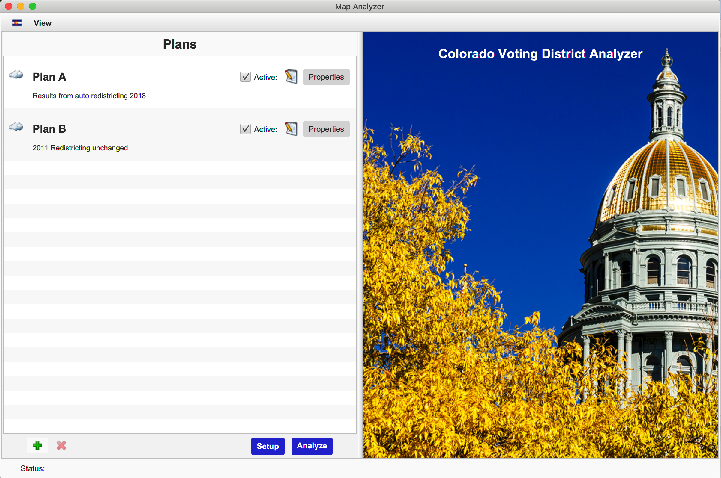
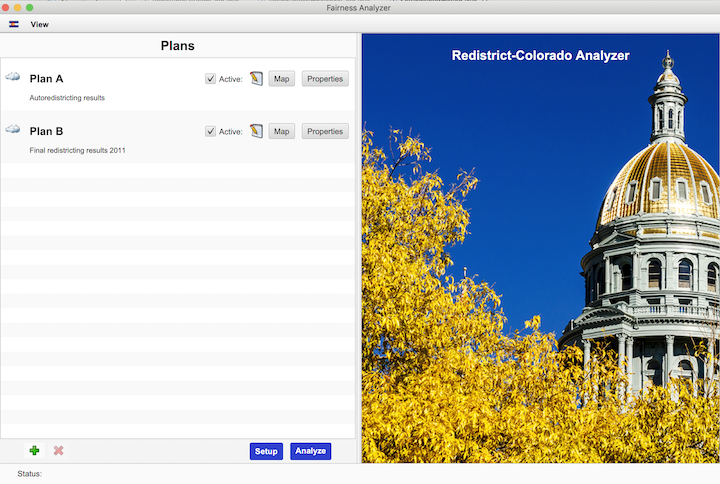
Documentation updates.

Changed region(s): [[0.0, 0.0, 1.0, 0.9665], [0.0, 0.1172, 0.2139, 0.9079], [0.0, 0.9079, 0.0917, 0.9958]]

diff --git a/workspace/GMaps/src/redistrict/colorado/gmaps/html/googlemapplan.html b/workspace/GMaps/src/redistrict/colorado/gmaps/html/googlemapplan.html
@@ -80,7 +80,7 @@
              strokeOpacity: 0.8,
              strokeWeight: 2,
              fillColor: clr,
-             fillOpacity: 0.35
+             fillOpacity: 0.15
            });
            polygon.setMap(map);
            var infowindow = new google.maps.InfoWindow();

diff --git a/workspace/GMaps/src/redistrict/colorado/gmaps/html/googlemapdistrict.html b/workspace/GMaps/src/redistrict/colorado/gmaps/html/googlemapdistrict.html
@@ -88,7 +88,7 @@
              strokeOpacity: 0.8,
              strokeWeight: 2,
              fillColor: "#AAAAAA",
-             fillOpacity: 0.35
+             fillOpacity: 0.20
            });
            polygon.setMap(map);
    	  }

diff --git a/workspace/RCUI/src/redistrict/colorado/plan/SettingsInformation.java b/workspace/RCUI/src/redistrict/colorado/plan/SettingsInformation.java
@@ -154,11 +154,19 @@ public class SettingsInformation extends Dialog<Gate> {
 		header.setStyle("-fx-font-weight: bold");
 		info.getChildren().add(header);
 		info.getChildren().add(new Text(System.lineSeparator()));
+		unfair = new Text("   unfair: 0   (votes are evenly spread )");
+		info.getChildren().add(unfair); info.getChildren().add(new Text(System.lineSeparator()));
+		fair   = new Text("      fair: .2   (seat percentage matches vote percentage)");
+		info.getChildren().add(fair); info.getChildren().add(new Text(System.lineSeparator()));
 		
 		header = new Text("Voting Power Imbalance:");
 		header.setStyle("-fx-font-weight: bold");
 		info.getChildren().add(header);
 		info.getChildren().add(new Text(System.lineSeparator()));
+		unfair = new Text("   unfair: .2   (one group has twice the power)");
+		info.getChildren().add(unfair); info.getChildren().add(new Text(System.lineSeparator()));
+		fair   = new Text("      fair: 0   (all groups have the same voting power)");
+		info.getChildren().add(fair); info.getChildren().add(new Text(System.lineSeparator()));
 		return info;
 	}
 	

diff --git a/workspace/RCUI/src/redistrict/colorado/district/DistrictMapRenderer.java b/workspace/RCUI/src/redistrict/colorado/district/DistrictMapRenderer.java
@@ -7,28 +7,18 @@
 package redistrict.colorado.district;
 import java.util.logging.Logger;
 
-import org.geotools.render.FeatureFilter;
-import org.geotools.render.MapLayer;
-import org.geotools.render.ShapefileRenderer;
-import org.geotools.style.Style;
 import org.geotools.util.Geometries;
 import org.locationtech.jts.geom.Coordinate;
 import org.locationtech.jts.geom.Envelope;
 import org.locationtech.jts.geom.GeometryCollection;
 import org.locationtech.jts.geom.Polygon;
 import org.openjump.feature.Feature;
-import org.openjump.feature.FeatureCollection;
-import org.openjump.feature.FeatureDataset;
 
-import javafx.scene.canvas.Canvas;
-import javafx.scene.paint.Color;
-import javafx.scene.shape.Rectangle;
 import redistrict.colorado.core.DatasetModel;
 import redistrict.colorado.core.StandardAttributes;
 import redistrict.colorado.db.Database;
 import redistrict.colorado.gmaps.GoogleMapView;
 import redistrict.colorado.gmaps.MapComponentInitializedListener;
-import redistrict.colorado.pref.PreferenceKeys;
 
 /**
  * Render a district from the shapefile as polygons on a Google Map.

diff --git a/workspace/RCUI/src/redistrict/colorado/gate/VotingPowerImbalanceGate.java b/workspace/RCUI/src/redistrict/colorado/gate/VotingPowerImbalanceGate.java
@@ -66,7 +66,7 @@ public class VotingPowerImbalanceGate extends Gate {
 		Text t2 = new Text("that is, the ability to effect the outcome of an election. We want to make sure that this power in not diluted by ");
 		Text t3 = new Text("artifically spredding votes of one ethnicity across multiple districts. For a single district, voting power is ");
 		Text t4 = new Text("the fraction of the population for a given ethnicity times the total votes cast divided by the vote margin.");
-		Text t5 = new Text(" We normalize by the overall population to mairgin ratio then take the harmonic mean for each ethniticy over ");
+		Text t5 = new Text(" We normalize by the overall population to margin ratio then take the harmonic mean for each ethniticy over ");
 		Text t6 = new Text("all districts. We want to minimize how much this varies between ethnicities, ");
 		Text t7 = new Text("so we take take difference between the ethnicity with the most power and the ethnicity with the least. ");
 		Text t8= new Text("We want this score to be ");

diff --git a/workspace/RCUI/src/redistrict/colorado/pane/PlanMapRenderer.java b/workspace/RCUI/src/redistrict/colorado/pane/PlanMapRenderer.java
@@ -67,8 +67,7 @@ public class PlanMapRenderer implements MapComponentInitializedListener {
 			double west = boundary.getMinX();
 			// Set the bounds to enclose the area of interest
 			overlay.getEngine().executeScript(String.format("initBounds(%8.6f,%8.6f,%8.6f,%8.6f)",north,east,south,west));
-			String nameAttribute = Database.getInstance().getAttributeAliasTable().nameForAlias(model.getId(), StandardAttributes.ID.name());
-
+			String nameAttribute = Database.getInstance().getAttributeAliasTable().nameForAlias(model.getBoundary().getId(), StandardAttributes.ID.name());
 			// Add the polygons
 			for(Feature feat:model.getBoundary().getFeatures().getFeatures()) {
 				String name = feat.getAttribute(nameAttribute).toString();

diff --git a/workspace/RCUI/src/redistrict/colorado/system/Version.java b/workspace/RCUI/src/redistrict/colorado/system/Version.java
@@ -4,10 +4,10 @@
 package redistrict.colorado.system;
 
 public class Version {
-	public final static String BUILD_DATE="May 25,2020";
+	public final static String BUILD_DATE="July 5,2020";
 	public final static String COPYRIGHT = "Copyright 2019-2020. Charles Coughlin. All rights reserved. ";
 	public final static String LICENSE = "GNU General Public License v3.0. For further details see: ";
 	public final static String LINK = "https://github.com/chuckcoughlin/redistrict-colorado/blob/master/LICENSE";
 	public final static String NAME = "FairnessAnalyzer";
-	public final static String VERSION="1.1";
+	public final static String VERSION="1.2";
 }

diff --git a/docs/user-guides.md b/docs/user-guides.md
@@ -34,7 +34,14 @@ actions in the left side controlling what is displayed on the right. A *View* me
 ```                  View Menu     ```
 
 ### Plans <a id="plans"></a>
-The figure below shows the plan context after selection of a "Properties" button. The screen shows aggregated quantities by district
+The figure below shows the plan superimposed over a Google Map. This view is accessible only if there is a current internet connection. The Google Map has
+controls for pan, zoom and map type. The map is colorized to indicate the
+predominant affiliation within each district. Additionally a 'click' within a
+district will popup an information window with metrics for that district.
+![MapOverlay](/images/plan_map.png)
+```                  Plan Overlay Onto Google Maps     ```
+
+The next figure shows the plan context after selection of a "Properties" button. The screen shows aggregated quantities by district
 based on the boundary, affiliation and demographics datasets selected for the analysis. When this page is first selected,
 application computes the aggregated values. This is a compute-intensive
 process and may take as long as a minute or two. Once the
@@ -136,12 +143,13 @@ The numerical value of the metric is the number of seats in excess of the "deser
 
 ###### Racial Vote Dilution
 This metric describes the extent, if any, to which voters of different ethnicities are disbursed across districts to avoid concentrations where they have a majority
-or near-majority. We define voting power as the ratio between he estimated votes by an ethnic group in a district and the vote margin. This value is scaled by the overall population to margin ratio. The final metric is the mean absolute deviation over the districts of the log of the result. A value of zero implies a perfectly homogeneous, i.e. diluted, distribution of voters. The metric value is the minimum
+or near-majority. We define voting power as the ratio between the estimated votes by an ethnic group in a district and the vote margin. This value is scaled by the overall population to margin ratio. The final metric is the mean absolute deviation over the districts of the log of the result. A value of zero implies a perfectly homogeneous, i.e. diluted, distribution of voters. The metric value is the minimum
 score across the groups.
 
 ###### Voting Power Imbalance:
-This metric looks at what would happen if members of ethnic groups voted for their own candidates irrespective of party. We want to make sure that
-the power of an ethnic group isn't diluted by artificially spreading the members across districts. The voting power metric is the fraction of population in a district represented by the group times the voting population divided by the vote margin. Normalize this by the overall population to vote margin. The harmonic mean across districts is taken, then the groups are compared. The final score is the difference between the highest and lowest scores.
+This metric is designed to ensure that the voting power of an ethnic group
+properly correlates to the fraction that they represent in the general population.
+The metric is calculated by taking fraction of population in a district represented by the group times the voting population divided by the vote margin. Normalize this by the overall population to vote margin. The harmonic mean across districts is taken, then the groups are compared. The final score is the difference between the highest and lowest scores.
 
 ###### Composite:
 The composite or overall metric is a compendium of all the other measures with
@@ -202,6 +210,11 @@ in a new session.
 
 ### Districts <a id="districts"></a>
 The *districts* section shows details of districts within any "boundary" dataset. The details are displayed simply by clicking on the district within the tree layout.
+
+The figure below shows how the resulting map is superimposed over a Google Map. The Google Map has
+controls for pan, zoom and map type. This allows for inspection of the boundaries.
+![DistrictOverlay](/images/district_map.png)
+```                  District Overlay Onto Google Maps     ```
 
 ### Installation <a id="installation"></a>
 The application consists of three components:

diff --git a/docs/release-notes.md b/docs/release-notes.md
@@ -8,5 +8,11 @@ First demonstration. Plan evaluation calculations are complete.
 Feature additions.
  * Partisan Assymetry - now allow choice of: mean-median, partisan-bias, declination or efficiency gap.
  * Voting Power - clarified the metric. Show both "packing" and "cracking" metrics by race.
- * District Navigation - zoom and pan buttons on district screen now work.
- * Google Maps - district boundaries are now super-imposed on a Google Map.
+
+#### 1.2 July 5, 2020
+Feature additions.
+ * District Maps - now super-imposed over Google Maps. Pan and zoom are available
+ * Plan Maps - now super-inposed over Google Maps.
+	* Districts are colorized to show affiations
+	* Info windows pop-up with a click in districts to show details
+	* Pan and zoom

diff --git a/docs/toolchain.md b/docs/toolchain.md
@@ -79,7 +79,6 @@ Java 13.
 * http://www.openjump.org/jpp.html OpenJUMP 1.14. This GIS package is extremely comprehensive consisting of over 1600 source files. We have simplified it drastically, using perhaps 50.
 * https://github.com/unitsofmeasurement/jsr-275 JSR-275 units of measure.
 * https://sourceforge.net/projects/geographiclib/files/distrib/GeographicLib-1.50.zip/download GeographicLib, a Java library of routines for converting between geographic and geocentric coordinates.
-* https://github.com/rterp/GMapsFX GMapsFX, a java wrapper for the Google Maps javascript API.
 
 #### Shapefiles <a id="shapefiles"></a>
 [toc](#table-of-contents)
